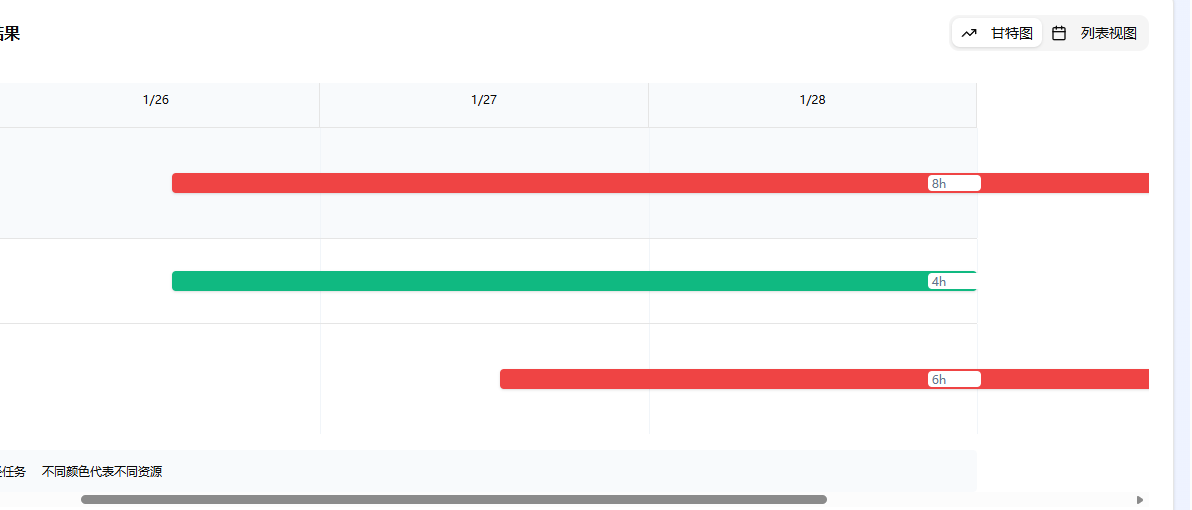
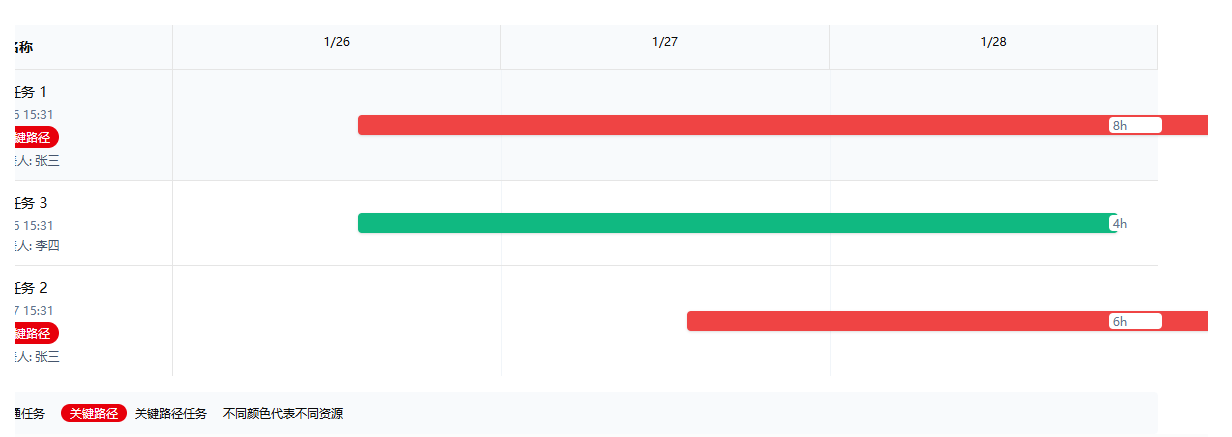
fix: 修复甘特图任务宽度计算错误，使用预估工时而非自然时间差

diff --git a/src/components/gantt-chart.tsx b/src/components/gantt-chart.tsx
@@ -147,19 +147,26 @@ export default function GanttChart({
     // 计算当天实际工作时间（减去午休）
     const dailyWorkHours = (WORK_END_HOUR - WORK_START_HOUR) - (LUNCH_BREAK_END - LUNCH_BREAK_START);
 
-    // 计算任务的持续时间（考虑午休和跨天）
-    let remainingDuration = (taskEnd.getTime() - taskStart.getTime()) / (1000 * 60 * 60);
+    // 使用预估工时而不是自然时间差（这是关键修复！）
+    let remainingDuration = task.estimatedHours;
     let totalWidthDays = 0;
 
     // 从任务开始日期开始计算
     let currentDate = new Date(taskStart);
     let isFirstDay = true;
 
-    while (remainingDuration > 0) {
+    console.log(`=== 任务: ${task.name} ===`);
+    console.log(`任务开始: ${formatDateTime(taskStart)}`);
+    console.log(`预估工时: ${task.estimatedHours}h`);
+    console.log(`每日工作时长: ${dailyWorkHours}h`);
+    console.log(`开始日期索引: ${dayIndex}, startOffset=${startHourOffset.toFixed(2)}h`);
+
+    while (remainingDuration > 0.001) { // 使用小阈值避免浮点数误差
       const currentDayStr = currentDate.toDateString();
 
       // 检查是否是工作日
       if (!WORK_DAYS.includes(currentDate.getDay())) {
+        console.log(`  ${formatDateShort(currentDate)} 非工作日，跳过`);
         // 跳过非工作日
         currentDate.setDate(currentDate.getDate() + 1);
         currentDate.setHours(0, 0, 0, 0);
@@ -172,7 +179,10 @@ export default function GanttChart({
       // 如果是第一天，从任务开始时间计算
       if (isFirstDay) {
         availableHours = dailyWorkHours - startHourOffset;
+        console.log(`  第一天 ${formatDateShort(currentDate)}: 可用=${availableHours.toFixed(2)}h`);
         isFirstDay = false;
+      } else {
+        console.log(`  其他天 ${formatDateShort(currentDate)}: 可用=${availableHours.toFixed(2)}h`);
       }
 
       // 计算当天可以使用的小时数
@@ -180,11 +190,12 @@ export default function GanttChart({
 
       // 累加天数（每天都用实际工作时间占比）
       totalWidthDays += hoursUsed / dailyWorkHours;
+      console.log(`    使用=${hoursUsed.toFixed(2)}h, 累计宽度=${totalWidthDays.toFixed(2)}天`);
 
       remainingDuration -= hoursUsed;
 
       // 移动到下一天
-      if (remainingDuration > 0) {
+      if (remainingDuration > 0.001) {
         currentDate.setDate(currentDate.getDate() + 1);
         currentDate.setHours(0, 0, 0, 0);
       }
@@ -193,6 +204,9 @@ export default function GanttChart({
     // 计算left位置（使用初始的startHourOffset）
     const left = ((dayIndex + startHourOffset / dailyWorkHours) / totalWorkDays) * 100;
     const width = (totalWidthDays / totalWorkDays) * 100;
+
+    console.log(`最终结果: left=${left.toFixed(2)}%, width=${width.toFixed(2)}%`);
+    console.log(`总工作日: ${totalWorkDays}\n`);
 
     return {
       left,
